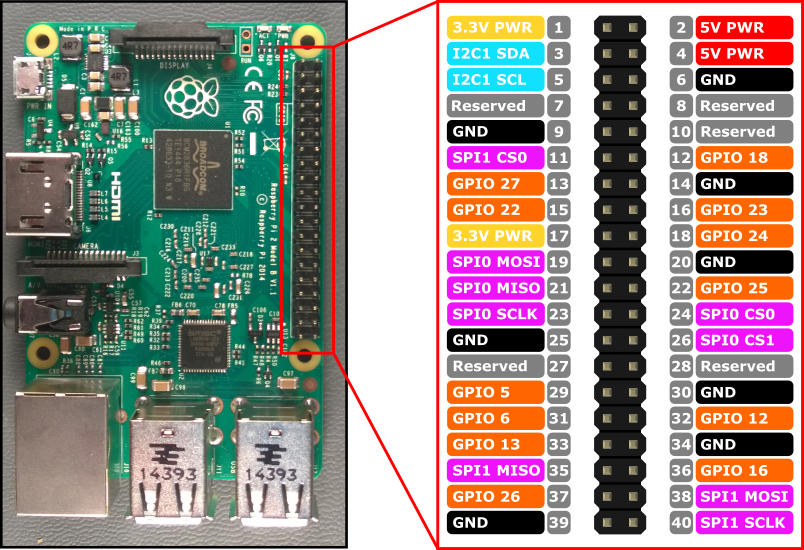
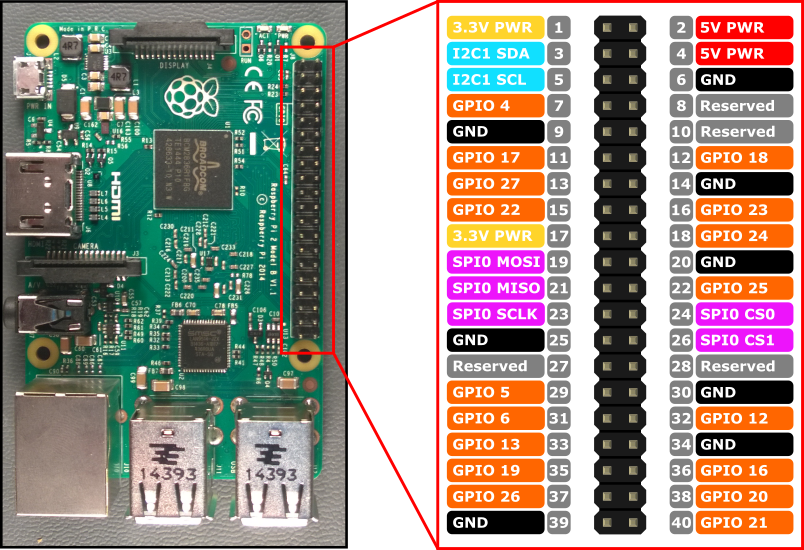
Updating Rpi2 Pinout to reflect addition of new GPIOs
SPI1 is being removed and replaced with four new GPIO pins.

diff --git a/en-US/win10/samples/PinMappingsRPi2.md b/en-US/win10/samples/PinMappingsRPi2.md
@@ -13,8 +13,8 @@ lang: en-US
 
 Hardware interfaces for the Raspberry Pi 2 are exposed through the 40-pin header **J8** on the board. Functionality includes:
 
-* **13x** - GPIO pins
-* **2x** - SPI buses
+* **17x** - GPIO pins
+* **1x** - SPI bus
 * **1x** - I2C bus
 * **2x** - 5V power pins
 * **2x** - 3.3V power pins
@@ -27,12 +27,17 @@ The following GPIO pins are accessible through APIs:
 {:.table.table-bordered}
 | GPIO# | Power-on Pull | Header Pin         |
 |-------|---------------|--------------------|
+| 4     | PullUp        | 7                  |
 | 5     | PullUp        | 29                 |
 | 6     | PullUp        | 31                 |
 | 12    | PullDown      | 32                 |
 | 13    | PullDown      | 33                 |
 | 16    | PullDown      | 36                 |
+| 17    | PullDown      | 11                 |
 | 18    | PullDown      | 12                 |
+| 19    | PullDown      | 35                 |
+| 20    | PullDown      | 38                 |
+| 21    | PullDown      | 40                 |
 | 22    | PullDown      | 15                 |
 | 23    | PullDown      | 16                 |
 | 24    | PullDown      | 18                 |
@@ -111,22 +116,13 @@ public async void I2C()
 
 ##<a name="RPi2_SPI"></a>SPI Bus
 
-There are 2 SPI bus controllers available on the RPi2: **SPI0** and **SPI1**.
-
-**SPI0** has the standard **MOSI**, **MISO**, and **SCLK** lines, and can be configured to use one of two chip-select lines **SPI0 CS0** and **SPI0 CS1**.
+There is one SPI bus controller available on the RPi2. **SPI0** has the standard **MOSI**, **MISO**, and **SCLK** lines, and can be configured to use one of two chip-select lines **SPI0 CS0** and **SPI0 CS1**.
 
 * Pin 19 - **SPI0 MOSI**
 * Pin 21 - **SPI0 MISO**
 * Pin 23 - **SPI0 SCLK**
 * Pin 24 - **SPI0 CS0**
 * Pin 26 - **SPI0 CS1**
-
-**SPI1** includes **MOSI**, **MISO**, and **SCLK** lines, and only one chip-select line **SPI1 CS0**.
-
-* Pin 38 - **SPI1 MOSI**
-* Pin 35 - **SPI1 MISO**
-* Pin 40 - **SPI1 SCLK**
-* Pin 11 - **SPI1 CS0**
 
 An example on how to perform a SPI write on bus **SPI0** is shown below:
 {% highlight C# %}
